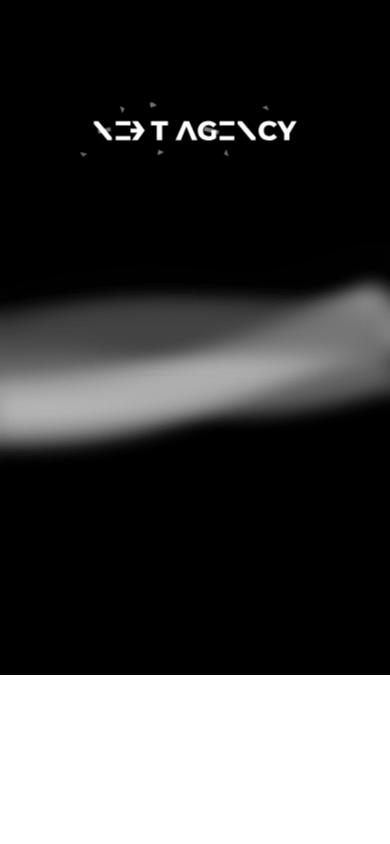
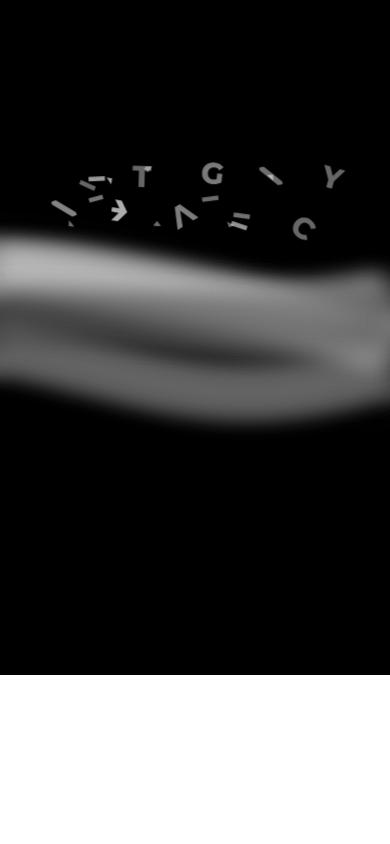
feat: showreel wordmark fully breaks apart and reassembles on scroll
Letter bodies now scatter too (outward from the centre, alternating up/down,
tilted, dimmed) alongside the cut fragments; deterministic jitter keeps the
scatter identical on every load.

ThreadRig-Thread: main

diff --git a/src/components/hero/HeroMedia.tsx b/src/components/hero/HeroMedia.tsx
@@ -9,8 +9,9 @@ import {
   reducedMotion,
 } from "@/lib/gsap";
 import type { HeroContent } from "@/content";
-// Clean stencil split: letter bodies stay put; only the cut fragments sit out along their cut
-// direction (unit vectors, SVG units). X's top fragment leans mostly up so it clears the T.
+// Scattered start: the whole wordmark is broken apart. Stencil fragments fly out along their own
+// cut direction; letter bodies scatter outward from the wordmark centre. Everything is tilted and
+// dimmed, then assembles on scroll. Directions are unit vectors in SVG units.
 const FRAGMENT_DIRECTIONS: Record<string, [number, number]> = {
   "l-n1-p2": [0.64, -0.77],
   "l-n2-p2": [0.64, -0.77],
@@ -21,19 +22,29 @@ const FRAGMENT_DIRECTIONS: Record<string, [number, number]> = {
   "l-x-p2": [0.25, -0.97],
   "l-x-p3": [0.64, 0.77],
 };
-// Scattered start: fragments fly well out along their cut direction, tilted, then assemble on scroll.
 const FRAGMENT_DISTANCE = 140;
-// Per-fragment tilt at rest (degrees), alternating so the scatter reads as debris, not a pattern.
-const FRAGMENT_ROTATION: Record<string, number> = {
-  "l-n1-p2": 28,
-  "l-n2-p2": -22,
-  "l-n1-p3": -34,
-  "l-n2-p3": 26,
-  "l-e1-p2": -14,
-  "l-e2-p2": 18,
-  "l-x-p2": 36,
-  "l-x-p3": -30,
+// Letter bodies: horizontal push away from the centre (fraction of their offset) and a vertical
+// throw that alternates up/down so neighbours separate.
+const BODY_SPREAD_X = 0.35;
+const BODY_THROW_Y: [number, number] = [70, 190];
+const MAX_TILT = 38;
+// Deterministic pseudo-random in [0, 1) so the scatter is identical on every load.
+const jitter = (i: number, salt: number) => {
+  const v = Math.sin(i * 12.9898 + salt * 78.233) * 43758.5453;
+  return v - Math.floor(v);
 };
+function scatter(piece: SVGGraphicsElement, i: number, centre: { x: number; y: number }) {
+  const id = piece.getAttribute("data-piece")!;
+  const rotation = (jitter(i, 1) * 2 - 1) * MAX_TILT;
+  if (id in FRAGMENT_DIRECTIONS) {
+    const [x, y] = FRAGMENT_DIRECTIONS[id];
+    return { x: x * FRAGMENT_DISTANCE, y: y * FRAGMENT_DISTANCE, rotation };
+  }
+  const b = piece.getBBox();
+  const dx = b.x + b.width / 2 - centre.x;
+  const throwY = BODY_THROW_Y[0] + jitter(i, 2) * (BODY_THROW_Y[1] - BODY_THROW_Y[0]);
+  return { x: dx * BODY_SPREAD_X, y: (i % 2 ? -1 : 1) * throwY, rotation };
+}
 // Wordmark rests at this fraction of its full gutter width and grows to 1 on scroll.
 // Rest size relative to the final (CSS) size: same on-screen start as before (0.38 of the gutter).
 const WORDMARK_REST_SCALE = 0.38 / 0.75;
@@ -41,10 +52,6 @@ const WORDMARK_REST_SCALE = 0.38 / 0.75;
 // Negative = above the frame (clipped by overflow), so it is hidden until it drops in.
 const WORDMARK_REST_TOP = -0.12;
 const WAVE_COLORS = ["#ffffff", "#d4d4d4", "#a3a3a3", "#737373", "#404040"];
-function fragmentOffset(id: string, distance: number) {
-  const [x, y] = FRAGMENT_DIRECTIONS[id];
-  return { x: x * distance, y: y * distance };
-}
 export function HeroMedia({ copy }: { copy: HeroContent }) {
   const scope = useRef<HTMLDivElement>(null);
   useGSAP(
@@ -54,25 +61,20 @@ export function HeroMedia({ copy }: { copy: HeroContent }) {
       const frame = root.querySelector(".media-frame");
       const inner = root.querySelector(".media-inner");
       const wordmark = root.querySelector(".media-wordmark");
-      const fragments = [...root.querySelectorAll("[data-piece]")].filter(
-        (piece) => piece.getAttribute("data-piece")! in FRAGMENT_DIRECTIONS,
-      );
+      const fragments = [...root.querySelectorAll<SVGGraphicsElement>("[data-piece]")];
+      const box = (wordmark as SVGSVGElement).viewBox.baseVal;
+      const centre = { x: box.x + box.width / 2, y: box.y + box.height / 2 };
       gsap.set(frame, { yPercent: 100 });
       // Fragments sit just outside the viewBox at rest; let them render instead of clipping.
       gsap.set(wordmark, { overflow: "visible", scale: WORDMARK_REST_SCALE });
-      fragments.forEach((piece) =>
-        gsap.set(piece, {
-          ...fragmentOffset(piece.getAttribute("data-piece")!, FRAGMENT_DISTANCE),
-          rotation: FRAGMENT_ROTATION[piece.getAttribute("data-piece")!],
-          transformOrigin: "50% 50%",
-          opacity: 0.4,
-        }),
+      fragments.forEach((piece, i) =>
+        gsap.set(piece, { ...scatter(piece, i, centre), transformOrigin: "50% 50%", opacity: 0.4 }),
       );
       const start = contextSafe!(() => {
         gsap.to(frame, { yPercent: 0, duration: 1.2, ease: "power3.out" });
         // One journey from the moment the panel enters until the pin releases:
         // the small wordmark starts near the top of the black frame, then drifts
-        // down to the centre while growing to full width; fragments snap in late.
+        // down to the centre while growing to full width; the scattered pieces assemble on the way.
         const topOffset = () =>
           -((frame as HTMLElement).clientHeight * (0.5 - WORDMARK_REST_TOP));
         gsap
